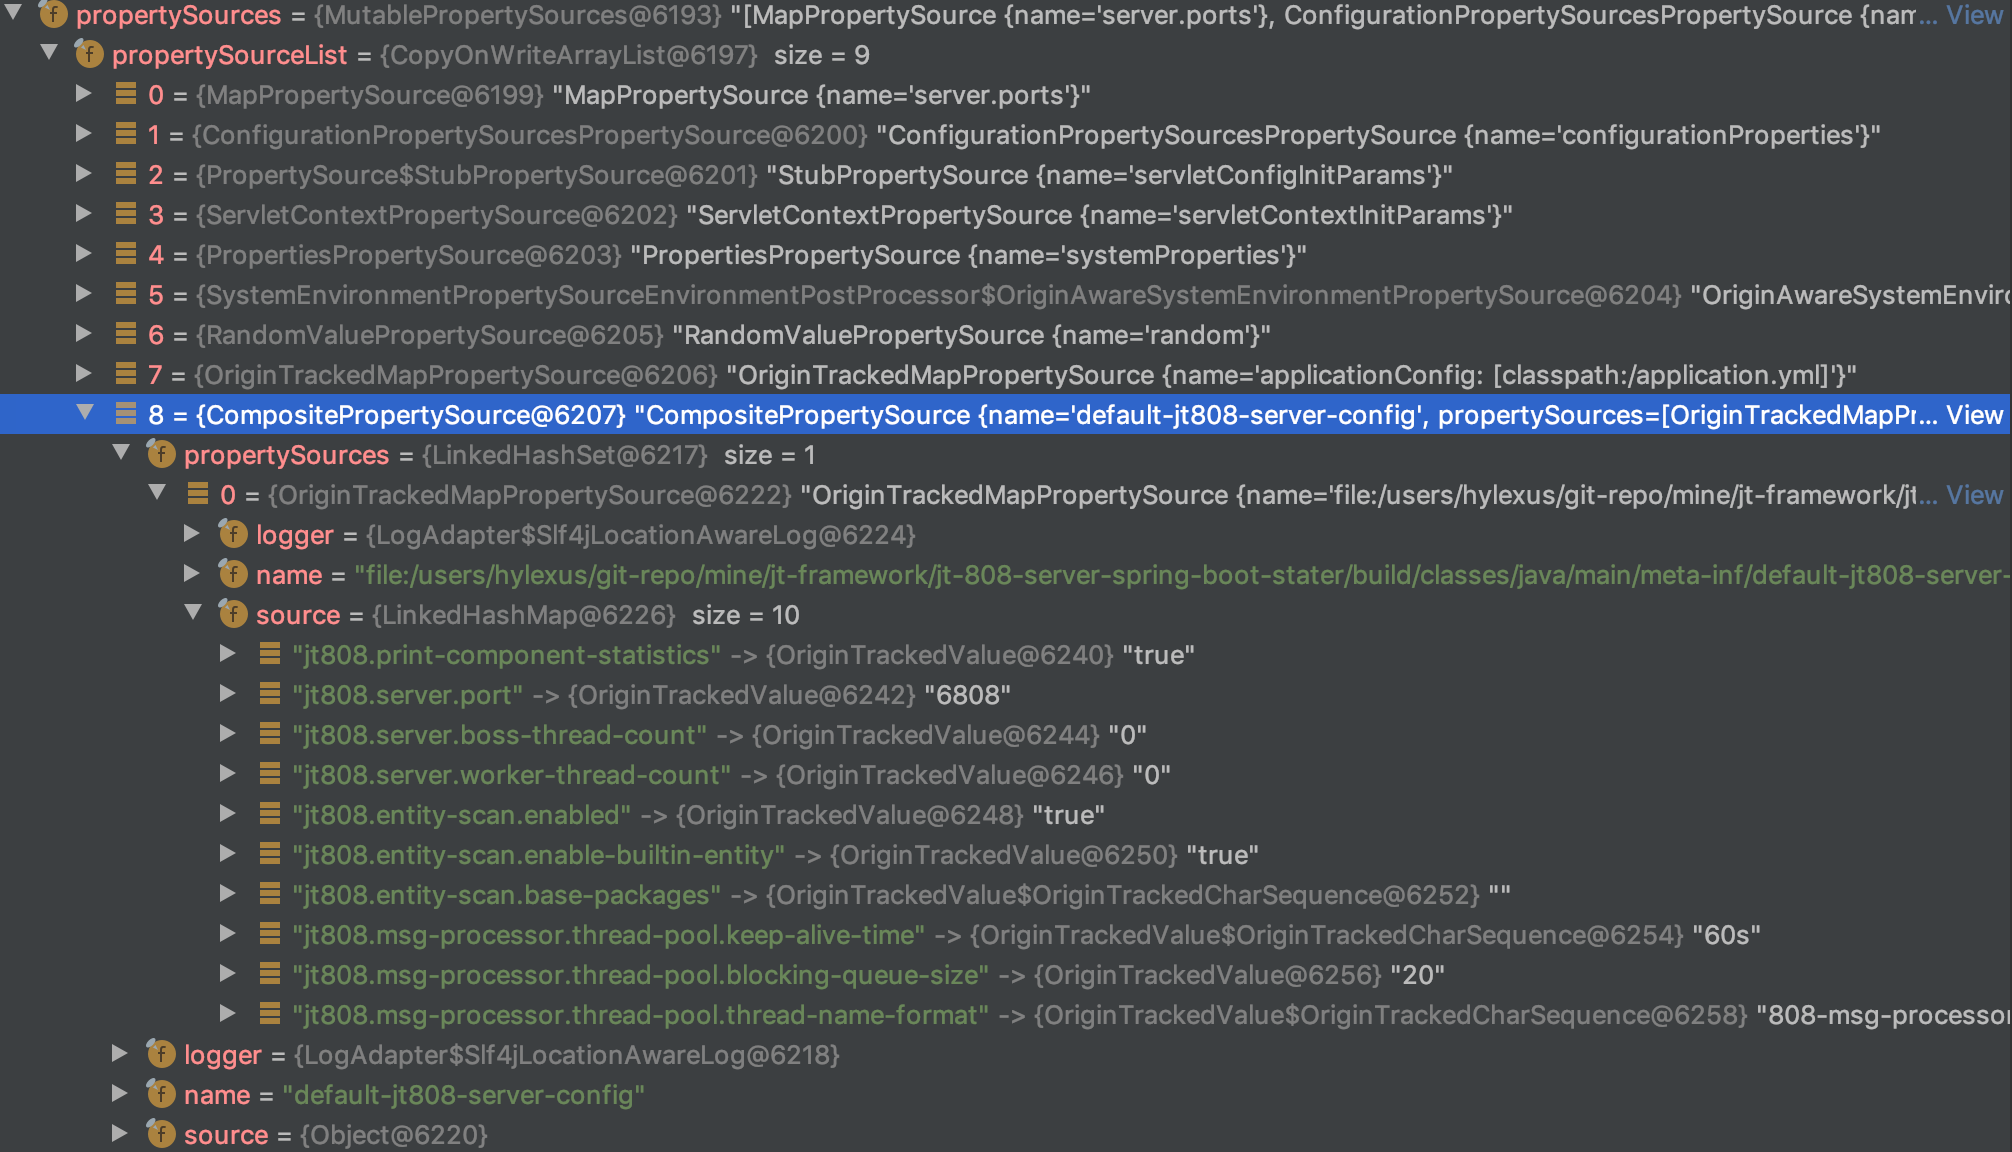
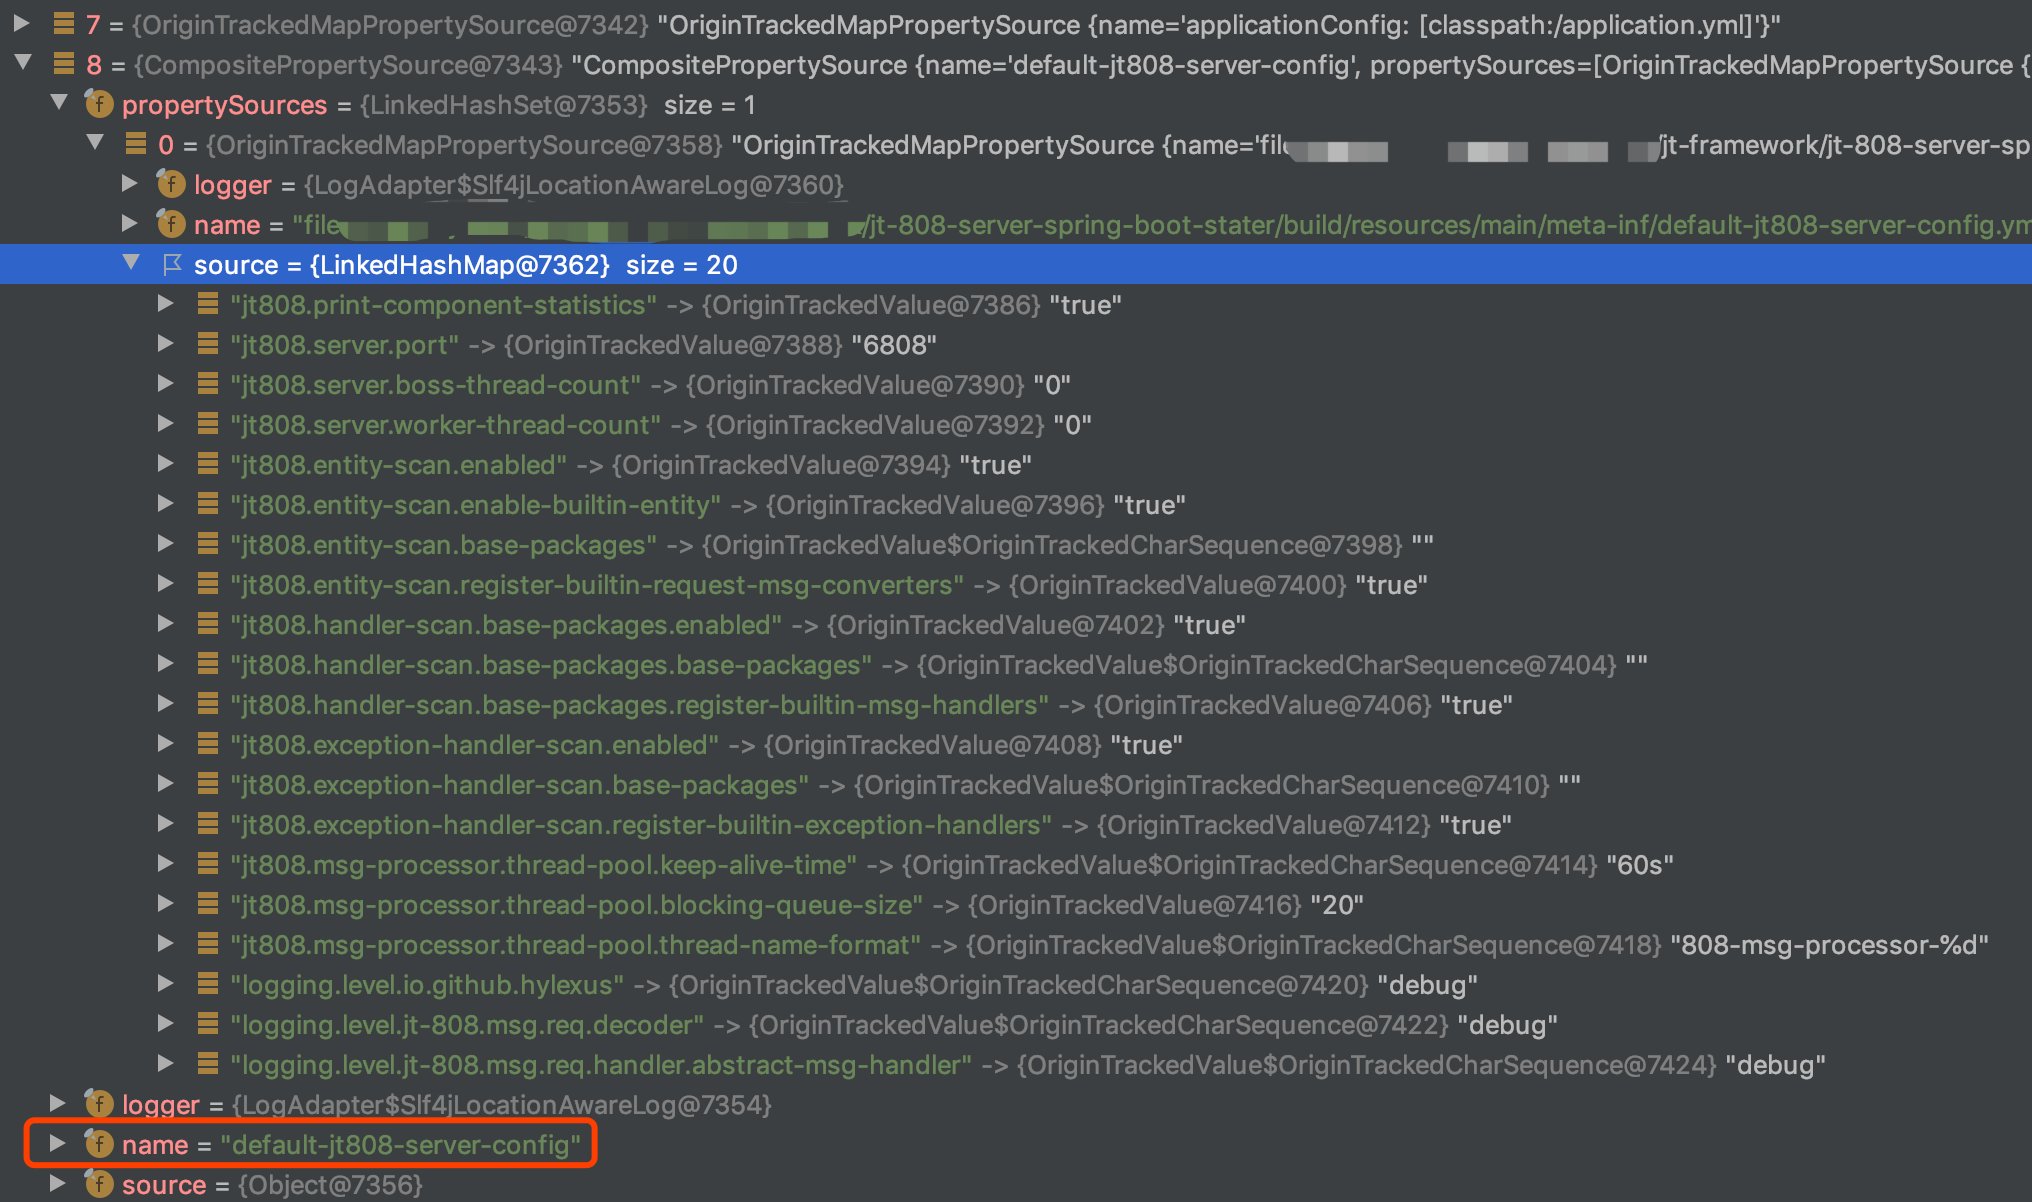
docs(docs): docs update
1. 时序图
2. 屏幕截图
3. application.yml配置项

Changed region(s): [[0.0, 0.0, 1.0, 1.0], [0.8628, 0.4688, 0.9861, 0.5312]]

diff --git a/jt-808-server-spring-boot-stater/src/main/java/io/github/hylexus/jt808/boot/config/Jt808ServerComponentStatistics.java b/jt-808-server-spring-boot-stater/src/main/java/io/github/hylexus/jt808/boot/config/Jt808ServerComponentStatistics.java
@@ -58,11 +58,11 @@ public class Jt808ServerComponentStatistics implements CommandLineRunner, Applic
 
     private static final String END_OF_LINE = "\n";
 
-    private RequestMsgBodyConverterMapping msgConverterMapping;
+    private final RequestMsgBodyConverterMapping msgConverterMapping;
 
-    private MsgHandlerMapping msgHandlerMapping;
+    private final MsgHandlerMapping msgHandlerMapping;
 
-    private MsgTypeParser msgTypeParser;
+    private final MsgTypeParser msgTypeParser;
 
     public Jt808ServerComponentStatistics(MsgTypeParser msgTypeParser, RequestMsgBodyConverterMapping msgConverterMapping,
                                           MsgHandlerMapping msgHandlerMapping) {
@@ -100,7 +100,7 @@ public class Jt808ServerComponentStatistics implements CommandLineRunner, Applic
                 .append(END_OF_LINE);
         for (Class<?> cls : classSet) {
             stringBuilder.append(String.format("%1$-36s", cls.getSimpleName()))
-                    .append("|\t")
+                    .append("|  ")
                     .append(formatClassName(applicationContext.getBean(cls), false, false))
                     .append(END_OF_LINE);
         }
@@ -116,7 +116,7 @@ public class Jt808ServerComponentStatistics implements CommandLineRunner, Applic
 
     private void detectConvertAndHandlerMappings(int no, StringBuilder stringBuilder) {
         stringBuilder.append(line(no, "RequestMsgBodyConverter and MsgHandler MappingInfo:")).append(END_OF_LINE);
-        stringBuilder.append(String.format("%1$-35s\t|\t%2$-92s|\t%3$-64s%n", "MsgId (MsgDesc)", "MsgConverter", "MsgHandler"));
+        stringBuilder.append(String.format("%1$-35s\t|  %2$-92s|  %3$-64s%n", "MsgId (MsgDesc)", "MsgConverter", "MsgHandler"));
         stringBuilder.append("----------------------------------------------------------------------")
                 .append("----------------------------------------------------------------------")
                 .append("----------------------------------------------------------------------")
@@ -130,7 +130,7 @@ public class Jt808ServerComponentStatistics implements CommandLineRunner, Applic
                     MsgType msgType = entry.getKey();
                     MsgConverterAndHandlerMappingInfo mappingInfo = entry.getValue();
                     String content = String.format(
-                            "%1$-30s\t|\t%2$-125s\t|\t%3$-300s\n",
+                            "%1$-30s\t|  %2$-125s  |  %3$-30s\n",
                             formatMsgType(msgType),
                             detectMsgConverter(mappingInfo),
                             detectHandlerMethod(mappingInfo.getHandler(), msgType)

diff --git a/docs/pages/jt-808/guide/basic/customized.md b/docs/pages/jt-808/guide/basic/customized.md
@@ -117,7 +117,7 @@ public MsgTypeParser supplyMsgTypeParser() {
 
 ::: danger 注意
 - 该组件 `当且仅当` 你使用了内置的 `AuthMsgHandler` 来处理 `鉴权消息` 时才有效。
-- 如果你覆盖/未启用了内置的 `AuthMsgHandler`，那么你也 `不用` 提供 `AuthCodeValidator`。因为此时的鉴权逻辑已经完全交由你自定的 `AuthMsgHandler` 来处理了。
+- 如果你覆盖了/未启用内置的 `AuthMsgHandler`，那么你也 `不用` 提供 `AuthCodeValidator`。因为此时的鉴权逻辑已经完全交由你自定的 `AuthMsgHandler` 来处理了。
 :::
 
 ```java

diff --git a/docs/pages/jt-808/guide/basic/quick-start.md b/docs/pages/jt-808/guide/basic/quick-start.md
@@ -23,7 +23,7 @@
 ```groovy
 dependencies {
 	// ...
-	implementation group: 'io.github.hylexus.jt', name: 'jt-808-server-spring-boot-stater', version: "1.0-SNAPSHOT"
+	implementation group: 'io.github.hylexus.jt', name: 'jt-808-server-spring-boot-stater', version: "1.0.0-SNAPSHOT"
     // ...
 }
 ```
@@ -34,7 +34,7 @@ dependencies {
 <parent>
     <groupId>io.github.hylexus.jt</groupId>
     <artifactId>jt-808-server-spring-boot-stater</artifactId>
-    <version>1.0-SNAPSHOT</version>
+    <version>1.0.0-SNAPSHOT</version>
     <relativePath/>
 </parent>
 ```

diff --git a/docs/pages/jt-808/guide/more/design-of-msg-processing.md b/docs/pages/jt-808/guide/more/design-of-msg-processing.md
@@ -9,6 +9,17 @@
 组件关系图源文件位于： [jt-808.graffle](https://github.com/hylexus/jt-framework/tree/master/docs/help/jt-808.graffle)
 
 ## 时序图
-::: tip TODO
-TODO
-:::
+
+### MsgDispatcher
+
+<p class="demo">
+    <img :src="$withBase('/img/design/dispatch-msg.png')" alt="dispatch-msg.png">
+</p>
+
+### MsgConsumer
+
+<p class="demo">
+    <img :src="$withBase('/img/design/consume-msg.png')" alt="consume-msg.png">
+</p>
+
+

diff --git a/docs/pages/jt-808/config/README.md b/docs/pages/jt-808/config/README.md
@@ -15,7 +15,7 @@ sidebarDepth: 3
     <img :src="$withBase('/img/default-config-property-source.png')" alt="default-config-property-source">
 </p> 
 
-## 基本配置
+## 配置项
 
 ```yaml
 jt808:
@@ -23,6 +23,10 @@ jt808:
   server:
     # ...
   entity-scan:
+    # ...
+  handler-scan:
+    # ...
+  exception-handler-scan:
     # ...
   msg-processor:
     thread-pool:
